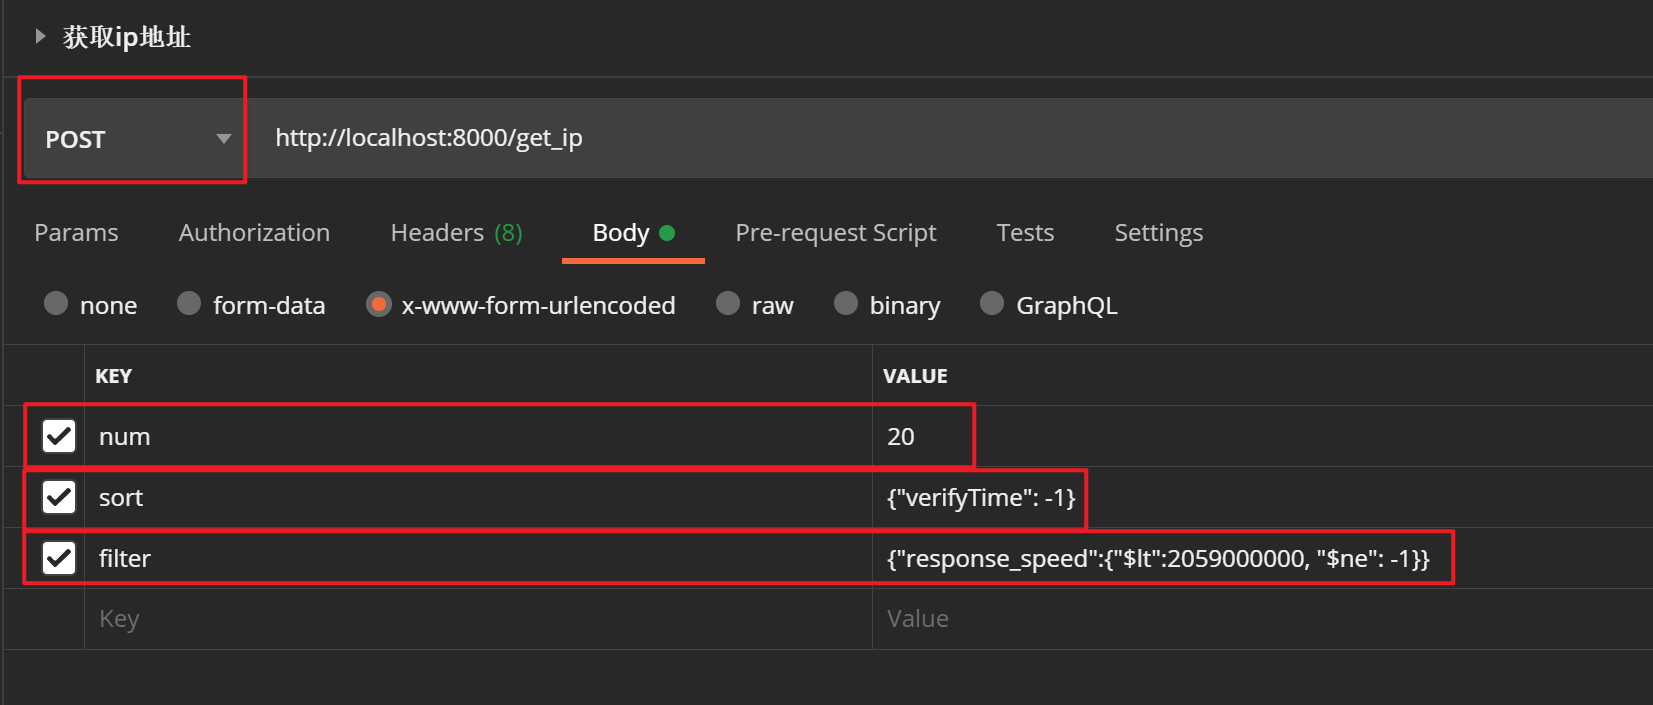
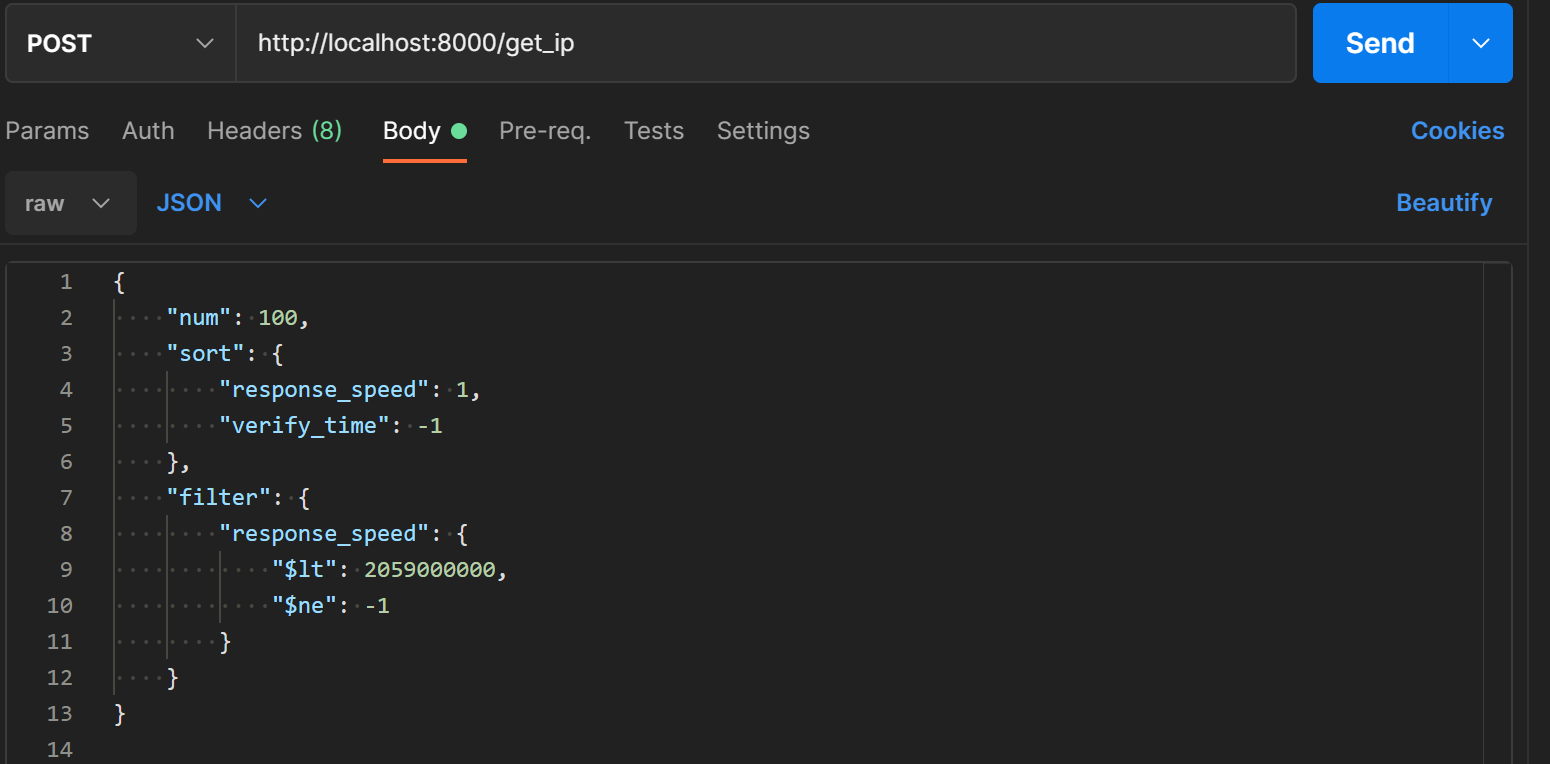
refactor: modify bson tag

diff --git a/model/ip.go b/model/ip.go
@@ -20,7 +20,7 @@ type IP struct {
 	// ip地址所在地理位置
 	Location string `bson:"location,omitempty" json:"location,omitempty"`
 	// 上次验证时间
-	VerifyTime time.Time `bson:"verifyTime,omitempty" json:"verify_time,omitempty"`
+	VerifyTime time.Time `bson:"verify_time,omitempty" json:"verify_time,omitempty"`
 	// 代理ip类型，HTTP, HTTPS
 	Type string `bson:"type,omitempty" json:"type,omitempty"`
 	// 是否支持POST请求

diff --git a/README.md b/README.md
@@ -29,6 +29,22 @@ type param struct {
 
 <img src="images/1.png" width=500>
 
+```json
+{
+    "num": 100,
+    "sort": {
+        "response_speed": 1,
+        "verify_time": -1
+    },
+    "filter": {
+        "response_speed": {
+            "$lt": 2059000000,
+            "$ne": -1
+        }
+    }
+}
+```
+
 > :star:**强烈建立在使用的时候参数在上述的sort和filter参数进行扩展，以免获取到的IP可用率比较低**
 
 
